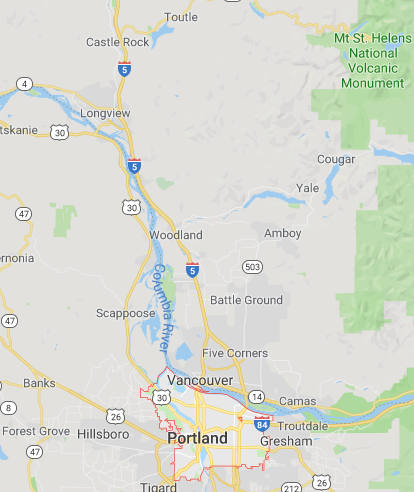
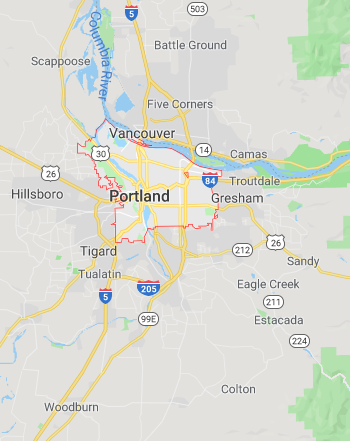
Adding inverse Data Flow

diff --git a/src/containers/StoreLocator.js b/src/containers/StoreLocator.js
@@ -2,6 +2,7 @@ import React, {Component} from 'react';
 import Header from '../components/Header';
 import Button from '../components/Button';
 import Map from '../components/Map'
+import mapChooser from '../mapChooser'
 
 class StoreLocator extends Component {
     constructor(props) {
@@ -22,12 +23,19 @@ class StoreLocator extends Component {
                 'location': '',
                 'address': ''
             }
-        ]
+        ];
+
+        this.chooseMap = this.chooseMap.bind(this);
+    }
+
+    chooseMap(e) {
+        console.log(e.target.value)
+        this.setState({currentMap: mapChooser(e.target.value)});
     }
 
     render() {
         let storeButtons = this.shops.map((shop, id) => {
-            return (<Button key={id} location={shop.location} />)
+            return (<Button handleClick={this.chooseMap} key={id} location={shop.location} />)
         });
 
         return (

diff --git a/src/containers/__tests__/StoreLocator.test.js b/src/containers/__tests__/StoreLocator.test.js
@@ -4,6 +4,7 @@ import StoreLocator from '../StoreLocator';
 
 describe('StoreLocator', function () {
     let mountedStoreLocator ;
+
     beforeEach(() => {
         mountedStoreLocator = shallow(<StoreLocator />);
     })
@@ -26,4 +27,14 @@ describe('StoreLocator', function () {
         const maps = mountedStoreLocator.find('Map');
         expect(maps.length).toBe(1);
     });
+});
+
+describe('chooseMap', function () {
+    it('updates this.state.currentMap using the location passed to it', () => {
+        let mountedStoreLocator = shallow(<StoreLocator />);
+        let mockEvent = {target: {value: 'testland'}};
+        mountedStoreLocator.instance().chooseMap(mockEvent);
+        console.log(mountedStoreLocator.instance().state)
+        expect(mountedStoreLocator.instance().state.currentMap).toBe('testland.png');
+    })
 });

diff --git a/src/__tests__/mapChooser.test.js b/src/__tests__/mapChooser.test.js
@@ -2,13 +2,13 @@ import mapChooser from '../mapChooser';
 
 describe('mapChooser', () => {
     it('returns an image file name based on input given to it', () => {
-        let expected = 'portland.jpg';
+        let expected = 'portland.png';
         let actual = mapChooser('portland');
         expect(actual).toEqual(expected);
     });
 
     it('returns an default image when no input is given', () => {
-        let expected = 'default.jpg';
+        let expected = 'none.png';
         let actual = mapChooser();
         expect(actual).toEqual(expected);
     })

diff --git a/src/components/__tests__/Button.test.js b/src/components/__tests__/Button.test.js
@@ -18,6 +18,12 @@ describe('Button', function () {
         expect(button.length).toBe(1);
     });
 
+    it('call a function passed to it when clicked', ()=> {
+        const mockCallBack = jest.fn();
+        const mountedButtonWithCallBack = shallow(<Button handleClick={mockCallBack} />);
+        mountedButtonWithCallBack.find('button').simulate('click');
+        expect(mockCallBack.mock.calls.length).toEqual(1);
+    })
 });
 
 describe('When a location is passed to it', function () {

diff --git a/src/components/Button.js b/src/components/Button.js
@@ -3,7 +3,7 @@ import './Button.css';
 
 class Button extends Component {
     render() {
-        return (<button className='location-button'>{this.props.location ? this.props.location : "All Locations"}</button>)
+        return (<button value={this.props.location} onClick={this.props.handleClick} className='location-button'>{this.props.location ? this.props.location : "All Locations"}</button>)
     }
 }
 

diff --git a/src/mapChooser.js b/src/mapChooser.js
@@ -3,11 +3,13 @@
 // }
 
 var mapChooser = (locationName) => {
+    if (!locationName) {
+        locationName = 'none';
+    }
 
-    if (!locationName)
-        locationName = 'default';
+    let imageName = locationName + '.png'
 
-    return locationName + '.jpg';
+    return imageName;
 }
 
 export default mapChooser;

diff --git a/README.md b/README.md
@@ -2,13 +2,19 @@
 
 - [React Commonly Faced Problems](https://jscomplete.com/learn/react-beyond-basics/react-cfp)
 
+## What to test?
+
+- Test the output / states / events / edge cases
+
+## Summary
+
 This project was bootstrapped with [Create React App](https://github.com/facebook/create-react-app).
 
 ## Available Scripts
 
 In the project directory, you can run:
 
-### `npm start`
+#### `npm start`
 
 Runs the app in the development mode.<br>
 Open [http://localhost:3000](http://localhost:3000) to view it in the browser.
